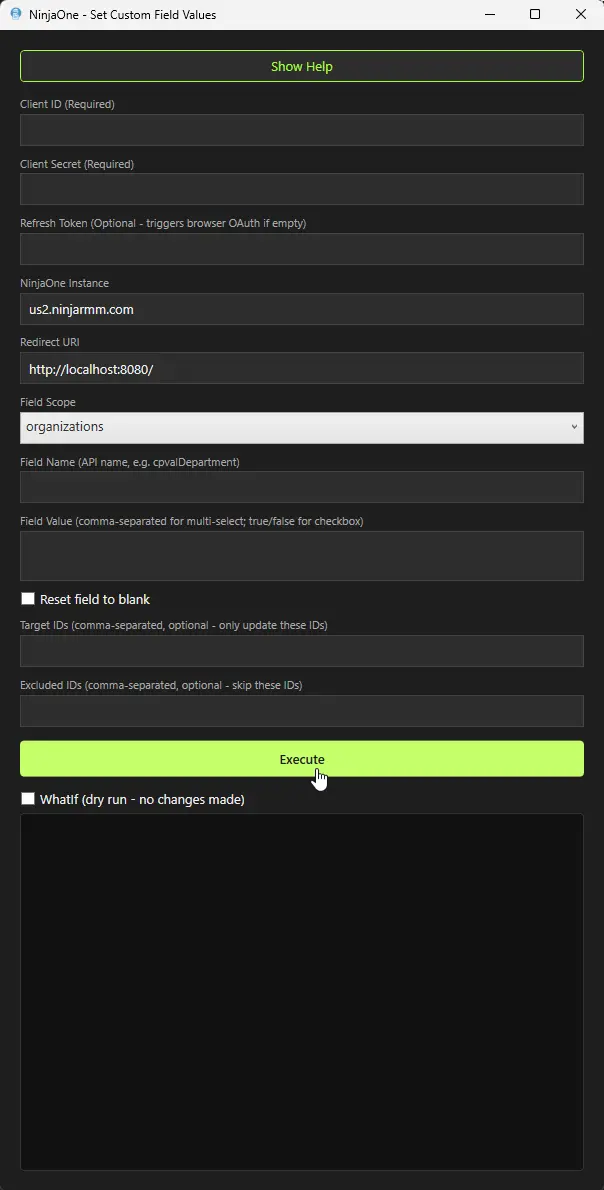
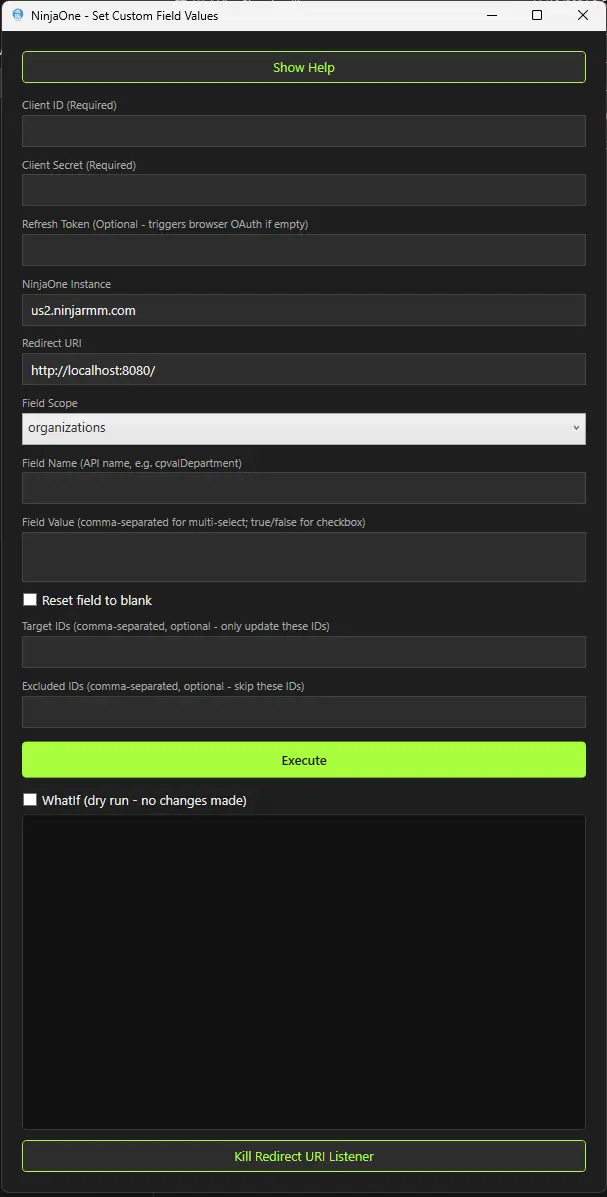
Merge pull request #706 from ProVal-Tech/origin-modify-app-set-ninja-one-custom-field
Approved

Pull request: set-ninja-one-custom-field
- Added **Kill Redirect URI Listener** button to release the local OAuth redirect listener port when needed.
- Added automatic redirect listener cleanup at completion to reduce port-binding issues on later runs.
- Fixed refresh-token authentication flow where valid refresh tokens could fail to produce an access token.
- Displayed refresh token output in console so first-time authorization can be reused on future runs.

diff --git a/docs/apps/set-ninja-one-custom-field.md b/docs/apps/set-ninja-one-custom-field.md
@@ -9,7 +9,7 @@ tags: ['application', 'custom-fields']
 draft: false
 unlisted: false
 last_update:
-  date: 2026-05-27
+  date: 2026-06-02
 ---
 
 <br />
@@ -90,6 +90,19 @@ Before using the tool, create an API application in NinjaOne:
 
 If **Refresh Token** is blank, the tool starts an interactive browser sign-in flow and automatically captures the callback.
 
+You can also use **Kill Redirect URI Listener** to release the local redirect listener if a previous OAuth attempt was interrupted.
+
+### Use Refresh Token to Skip Re-Authorization
+
+Use this flow to avoid browser authorization on every run:
+
+1. Leave **Refresh Token** blank and run the tool once.
+2. Complete browser sign-in and consent.
+3. Copy the **Refresh Token** shown in the output console.
+4. Paste that token into **Refresh Token** for future runs.
+
+Result: the tool uses the saved refresh token to get a new access token automatically, so you only need the full browser authorization the first time.
+
 ### Application Fields and Options
 
 | Field Name | Required | Description |
@@ -106,6 +119,7 @@ If **Refresh Token** is blank, the tool starts an interactive browser sign-in fl
 | **Target IDs** | No | Comma-separated object IDs to update only specific items. |
 | **Excluded IDs** | No | Comma-separated object IDs to skip. Ignored when Target IDs are provided. |
 | **WhatIf (dry run)** | No | Simulates updates and reports what would change, without writing data. |
+| **Kill Redirect URI Listener** | No | Manually frees the redirect listener port when needed, for example after an interrupted OAuth attempt. |
 
 ## Field Type Behavior
 
@@ -165,6 +179,10 @@ The tool automatically checks the custom field definition and handles values cor
 - **OAuth callback/redirect problems**
   - Confirm Redirect URI matches exactly in both NinjaOne and the tool.
   - Ensure local port `8080` is not blocked by another process.
+  - Click **Kill Redirect URI Listener** to release a stuck local listener, then run again.
+- **Refresh token provided but authentication still fails**
+  - Re-run once with Refresh Token blank, complete OAuth, and copy the new token from console output.
+  - Confirm Client ID, Client Secret, instance, and Redirect URI match the same API app used to generate the token.
 - **Field not found**
   - Confirm you entered the API field name, not the display label.
 - **Dropdown or multi-select value fails**
@@ -186,6 +204,13 @@ The tool automatically checks the custom field definition and handles values cor
 - Use dry run mode whenever possible before large-scale updates.
 
 ## Changelog
+
+### 2026-06-02
+
+- Added **Kill Redirect URI Listener** button to release the local OAuth redirect listener port when needed.
+- Added automatic redirect listener cleanup at completion to reduce port-binding issues on later runs.
+- Fixed refresh-token authentication flow where valid refresh tokens could fail to produce an access token.
+- Displayed refresh token output in console so first-time authorization can be reused on future runs.
 
 ### 2026-05-27
 